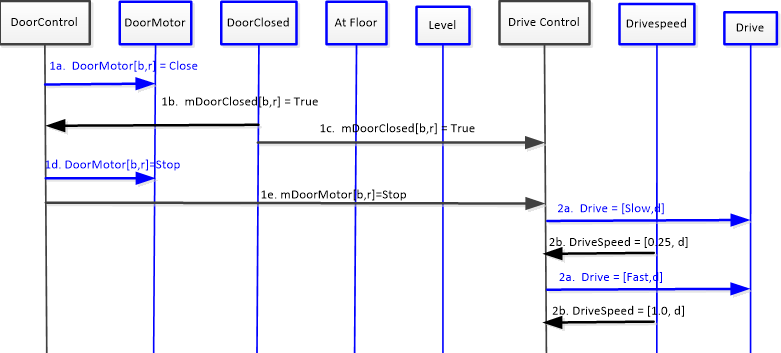
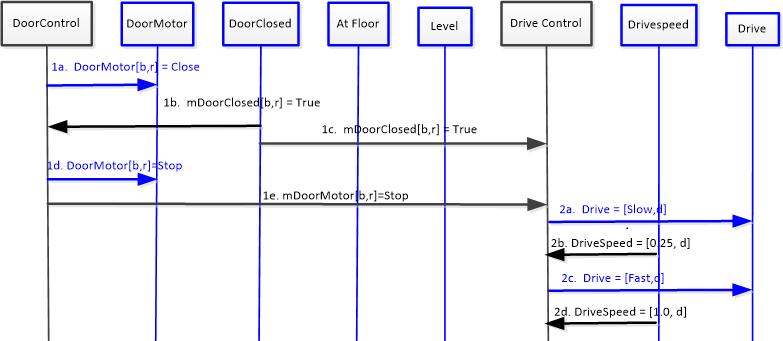
fixed stuff

diff --git a/portfolio/logs/peerreviewlog.html b/portfolio/logs/peerreviewlog.html
@@ -1007,6 +1007,23 @@ href="project%206%20peer%20review/CarPositionControllerImplementation.xls">Check
           <td valign="top"><br>
           </td>
         </tr>
+		<tr>
+          <td valign="top">61<br>
+          </td>
+          <td valign="top">10/22/2013<br>
+          </td>
+          <td valign="top">Sequence diagram 5c revised<br>
+          </td>
+          <td valign="top">Yang Liu<br>
+          </td>
+          <td valign="top">1<br>
+          </td>
+          <td valign="top"><a
+              href="project%208%20peer%20reviews/scen_sd_5c_peer_review.xls">Checklist</a><br>
+          </td>
+          <td valign="top"><br>
+          </td>
+        </tr>
       </tbody>
     </table>
     <br>
